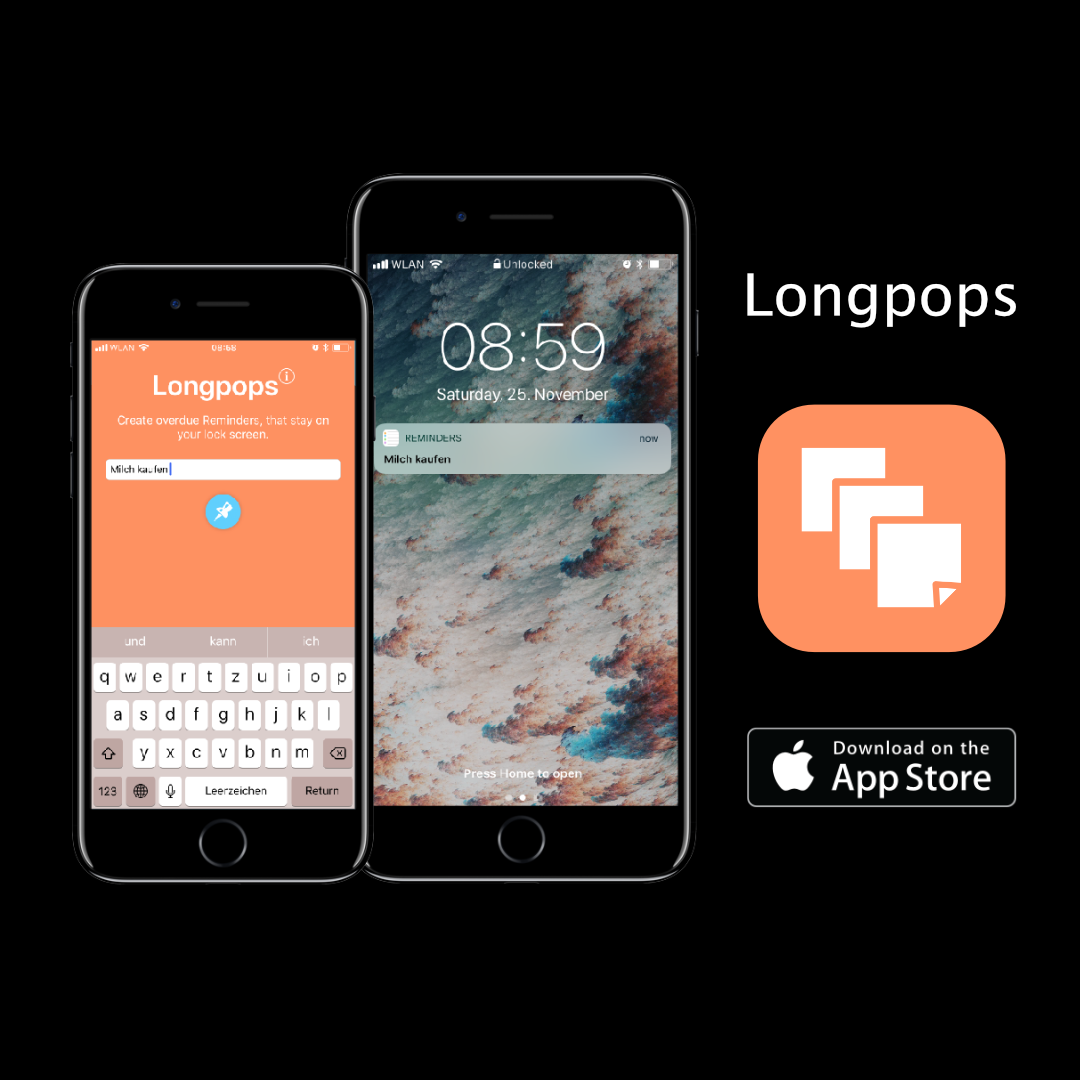
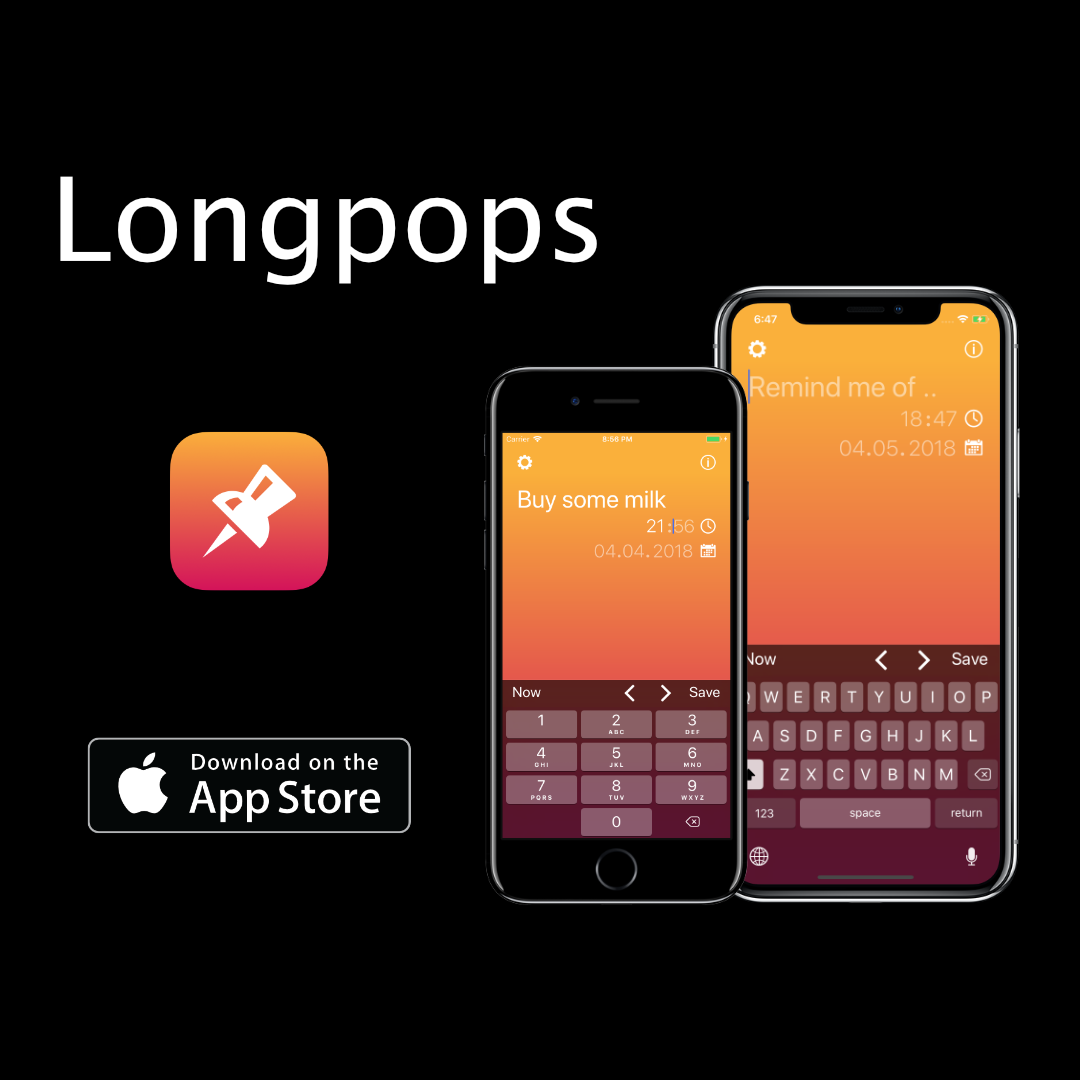
- new image for REAMDME.md - updated README.md

diff --git a/README.md b/README.md
@@ -1,9 +1,7 @@
 ## Longpops for iOS
 
-Longpops is meant to be a fast way to create overdue Reminder items, that remain on your lockscreen until they are marked as completed. 
+Longpops is meant to be a fast way to create Remindes.
 
 <img src="Longpops.png" width="400">
 
-[See it in video.](https://youtu.be/FaXg3InmyCg)
-
-[Download Longpops on the App Store!](https://itunes.apple.com/us/app/longpops/id1315774305?mt=8)
+[Download Longpops on the App Store!](https://itunes.apple.com/de/app/longpops/id1352311576?mt=8)
